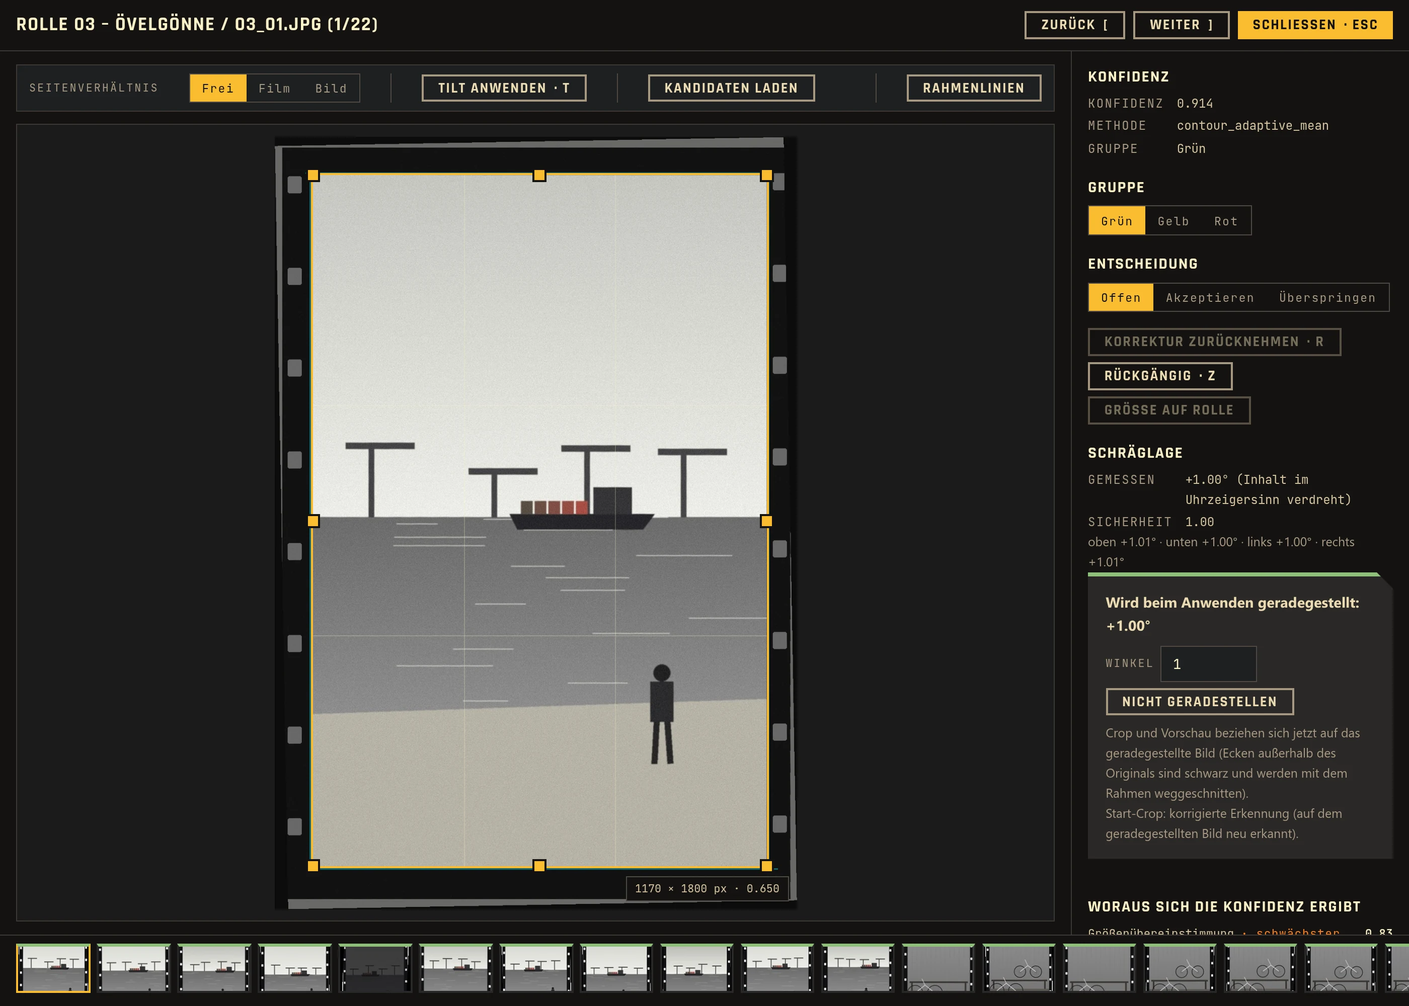
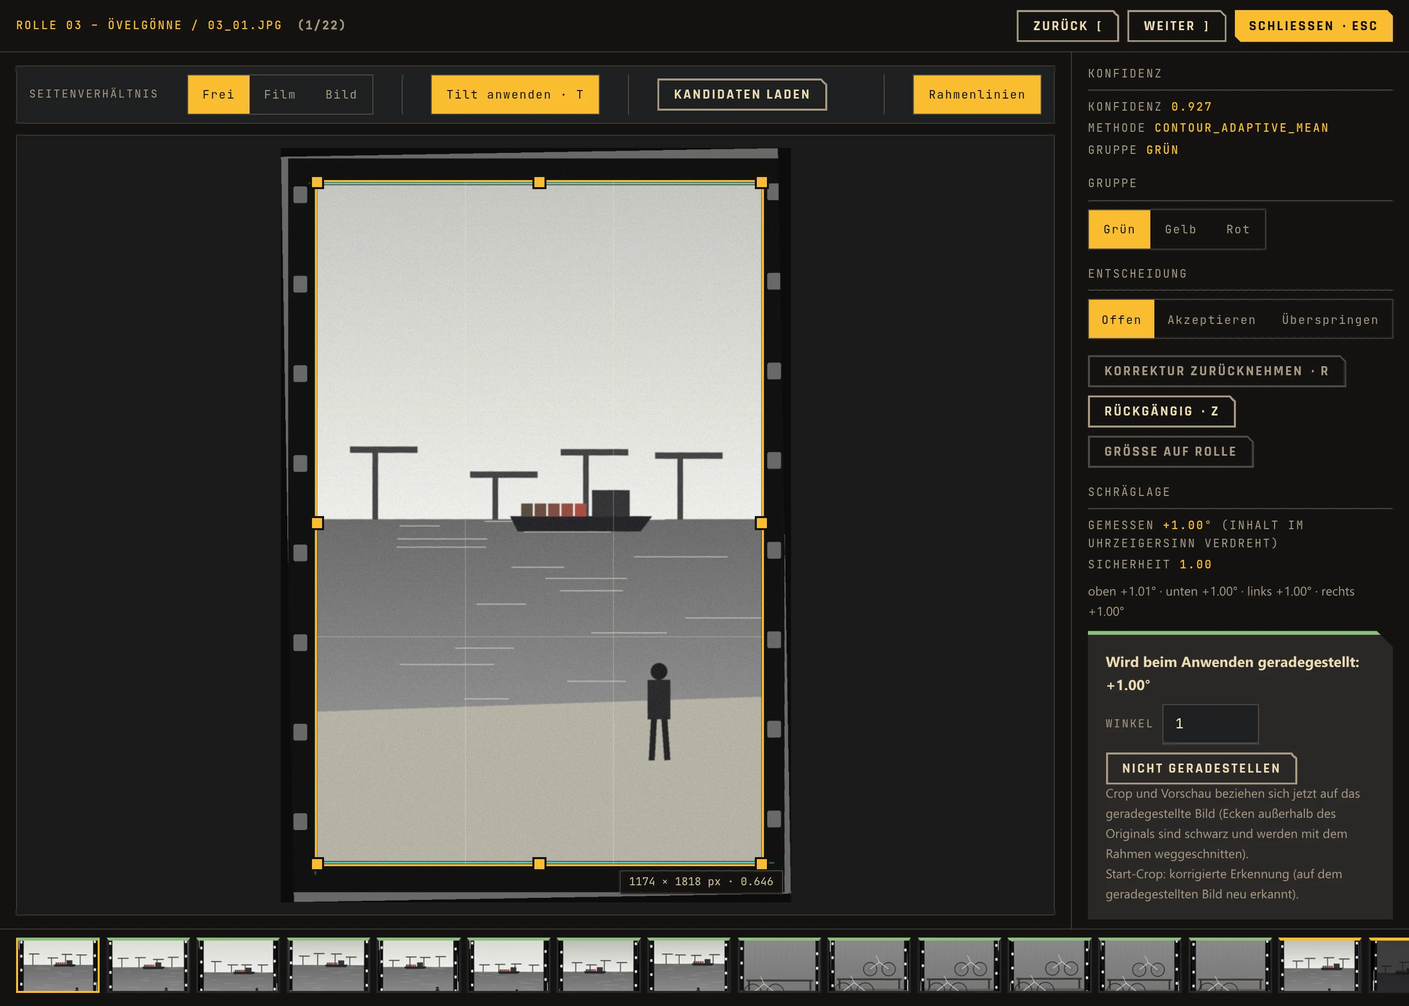
Release 0.4.0
Version 0.4.0 in pyproject.toml and companion/__init__.py, the 0.4.0
section in CHANGELOG.md, and the landing page: new entry at the top of
#changes with a screenshot of the Kante UI and a timing diagram, 0.1
moved into "Older releases", download box and footer on 0.4.0.
Screenshots retaken from the demo world; the editor shot now selects
the band by data-label (data-tier went away with the Kante migration).

diff --git a/docs/index.html b/docs/index.html
@@ -41,8 +41,8 @@
   </div>
   <div class="hero-side">
     <div class="install-card">
-      <label><span lang="en">Download · version 0.3.0</span><span lang="de">Herunterladen · Version 0.3.0</span></label>
-      <div class="install-links"><a class="btn btn-primary" href="https://github.com/shrippen/kader/releases/download/v0.3.0/Kader-0.3.0-windows-x64.exe">Windows (.exe)</a><a class="btn btn-primary" href="https://github.com/shrippen/kader/releases/download/v0.3.0/Kader-0.3.0-x86_64.AppImage">Linux (AppImage)</a></div>
+      <label><span lang="en">Download · version 0.4.0</span><span lang="de">Herunterladen · Version 0.4.0</span></label>
+      <div class="install-links"><a class="btn btn-primary" href="https://github.com/shrippen/kader/releases/download/v0.4.0/Kader-0.4.0-windows-x64.exe">Windows (.exe)</a><a class="btn btn-primary" href="https://github.com/shrippen/kader/releases/download/v0.4.0/Kader-0.4.0-x86_64.AppImage">Linux (AppImage)</a></div>
       <p class="install-note" lang="en">No Python, no terminal. Double-click, pick the folder of scans, check the crops in the browser. Windows 10 and 11; Linux from Ubuntu 22.04, Mint 21 or Debian 12. Uses darktable? The first start offers to set up the plugin.</p><p class="install-note" lang="de">Kein Python, kein Terminal. Doppelklicken, den Ordner mit den Scans wählen, die Zuschnitte im Browser prüfen. Windows 10 und 11; Linux ab Ubuntu 22.04, Mint 21 oder Debian 12. Du nutzt darktable? Der erste Start bietet an, das Plugin einzurichten.</p>
       <p class="install-note" lang="en">On a NAS or over SSH: with Python, <code>kader FOLDER --tui</code> shows the status in the terminal (see <a href="#terminal">Terminal</a>). All versions on the <a href="https://github.com/shrippen/kader/releases">release page</a>.</p><p class="install-note" lang="de">Auf einem NAS oder per SSH: mit Python zeigt <code>kader ORDNER --tui</code> den Stand im Terminal (siehe <a href="#terminal">Terminal</a>). Alle Versionen auf der <a href="https://github.com/shrippen/kader/releases">Release-Seite</a>.</p>
     </div>
@@ -101,7 +101,7 @@
 </section>
 <section class="section" id="status"><h2 lang="en">Where it stands</h2><h2 lang="de">Wo es steht</h2><p lang="en">The workflow is complete: folder in, web UI, six targets, darktable optional, packages for Windows and Linux. The detection hits about 87 % of the frames on 62 test rolls (about 84 % on undeveloped RAW negatives). The main error is a constant size offset per roll, not scatter inside a roll, so a whole roll can be slightly off together.</p><p lang="de">Der Ablauf ist vollständig: Ordner hinein, Web-Oberfläche, sechs Ziele, darktable optional, Pakete für Windows und Linux. Die Erkennung trifft auf 62 Testrollen etwa 87 % der Rahmen (etwa 84 % auf nicht entwickelten RAW-Negativen). Der Hauptfehler ist ein konstanter Größenversatz je Rolle, keine Streuung innerhalb der Rolle, eine ganze Rolle kann also gemeinsam leicht danebenliegen.</p><p lang="en">The confidence has become more honest: about 96 % of the green results are right, and rolls whose scale could not be confirmed are marked down instead of looking sure. For rolls without perforation in the scan this is not solved, only shown.</p><p lang="de">Die Konfidenz ist ehrlicher geworden: Etwa 96 % der grünen Ergebnisse stimmen, und Rollen, deren Maßstab sich nicht bestätigen ließ, werden abgewertet, statt sicher zu wirken. Für Rollen ohne Perforation im Scan ist das nicht gelöst, nur ausgewiesen.</p><div class="table-wrap"><table class="table"><thead><tr><th><span lang="en">Next</span><span lang="de">Als Nächstes</span></th><th><span lang="en">Goal</span><span lang="de">Ziel</span></th></tr></thead><tbody><tr><td><span lang="en">Real images</span><span lang="de">Echte Bilder</span></td><td><span lang="en">Before and after examples and screenshots of the web UI on this page</span><span lang="de">Vorher-nachher-Beispiele und Bildschirmfotos der Web-Oberfläche auf dieser Seite</span></td></tr><tr><td><span lang="en">darktable on Windows</span><span lang="de">darktable unter Windows</span></td><td><span lang="en">Check the plugin in a real darktable on Windows (so far only tested on Linux)</span><span lang="de">Das Plugin in echtem darktable unter Windows prüfen (bisher nur unter Linux getestet)</span></td></tr><tr><td><span lang="en">Test the sidecars</span><span lang="de">Sidecars prüfen</span></td><td><span lang="en">Check the <code>xmp</code> and <code>rawtherapee</code> output in Lightroom and RawTherapee themselves</span><span lang="de">Die Ausgabe von <code>xmp</code> und <code>rawtherapee</code> in Lightroom und RawTherapee selbst prüfen</span></td></tr><tr><td><span lang="en">Learn from feedback</span><span lang="de">Aus Rückmeldungen lernen</span></td><td><span lang="en">Use the corrections made in the web UI to find where the detection fails</span><span lang="de">Die Korrekturen aus der Web-Oberfläche nutzen, um zu finden, wo die Erkennung scheitert</span></td></tr></tbody></table></div><p lang="en">Details in the <a href="https://github.com/shrippen/kader/blob/main/roadmap.md">roadmap</a> and the <a href="https://github.com/shrippen/kader/blob/main/CHANGELOG.md">changelog</a>.</p><p lang="de">Details in der <a href="https://github.com/shrippen/kader/blob/main/roadmap.md">Roadmap</a> und im <a href="https://github.com/shrippen/kader/blob/main/CHANGELOG.md">Changelog</a>.</p></section>
 <section class="section" id="review"><h2 lang="en">Calibration</h2><h2 lang="de">Kalibrierung</h2><p lang="en">The reference data comes from the same web UI with the <code>reviews</code> target. A reference test shows how many detected crops lie within tolerance of your hand crops, and tiles are marked hit or miss. Corrections and accepted crops are saved as ground truth.</p><p lang="de">Die Referenzdaten kommen aus derselben Web-Oberfläche mit dem Ziel <code>reviews</code>. Ein Referenz-Test zeigt, wie viele erkannte Crops innerhalb der Toleranz zu deinen Handcrops liegen, und Kacheln tragen die Marke Treffer oder Abweichung. Korrekturen und bestätigte Crops werden als Ground Truth gespeichert.</p><ul lang="en"><li>Start it with <code>./start_review_gui.sh</code>, or <code>--films 33 34</code> for single rolls</li><li>Measure with <code>tools/eval.py</code> (hit rate, leave-one-film-out)</li></ul><ul lang="de"><li>Starte es mit <code>./start_review_gui.sh</code>, oder <code>--films 33 34</code> für einzelne Rollen</li><li>Messen mit <code>tools/eval.py</code> (Trefferquote, Leave-One-Film-Out)</li></ul></section>
-<section class="section" id="install"><h2 lang="en">Installation</h2><h2 lang="de">Installation</h2><h3 lang="en">Download (Windows, Linux)</h3><h3 lang="de">Herunterladen (Windows, Linux)</h3><div class="install-links" style="margin:.5rem 0 1.1rem"><a class="btn btn-accent" href="https://github.com/shrippen/kader/releases/download/v0.3.0/Kader-0.3.0-windows-x64.exe">Windows (.exe)</a><a class="btn btn-accent" href="https://github.com/shrippen/kader/releases/download/v0.3.0/Kader-0.3.0-x86_64.AppImage">Linux (AppImage)</a><a class="btn btn-outline" href="https://github.com/shrippen/kader/releases"><span lang="en">All releases</span><span lang="de">Alle Versionen</span></a></div><p lang="en">No Python and no terminal. Double-click, pick the folder, and the review opens in the browser while a small window shows the progress. RAWs are developed without other programs.</p><p lang="de">Kein Python und kein Terminal. Doppelklicken, den Ordner wählen, und die Prüfung öffnet sich im Browser, während ein kleines Fenster den Fortschritt zeigt. RAWs werden ohne weitere Programme entwickelt.</p><ul lang="en"><li><strong>Windows:</strong> the file is not signed. On the first start Windows says “Windows protected your PC”: click <strong>More info</strong>, then <strong>Run anyway</strong>.</li><li><strong>Linux:</strong> make the AppImage executable once (right-click → Properties → Permissions → “Allow executing as program”, or <code>chmod +x Kader-*.AppImage</code>), then double-click.</li><li>You can also drag the folder onto the file instead of using the dialog.</li></ul><ul lang="de"><li><strong>Windows:</strong> Die Datei ist nicht signiert. Beim ersten Start meldet Windows „Der Computer wurde durch Windows geschützt“: auf <strong>Weitere Informationen</strong>, dann <strong>Trotzdem ausführen</strong> klicken.</li><li><strong>Linux:</strong> Das AppImage einmal ausführbar machen (Rechtsklick → Eigenschaften → Berechtigungen → „Als Programm ausführen“, oder <code>chmod +x Kader-*.AppImage</code>), dann doppelklicken.</li><li>Statt des Dialogs kannst du den Ordner auch auf die Datei ziehen.</li></ul><h3 lang="en">darktable plugin</h3><h3 lang="de">darktable-Plugin</h3><p lang="en">If darktable is installed, the first start of the app offers to set up the plugin. Close darktable first. The app copies the plugin, turns it on in the Script Manager and remembers where the app lives; if you move the app, the next start updates that. The panel in the lighttable is called <strong>Kader</strong>. Later: <code>Kader darktable-plugin install</code>, <code>uninstall</code> or <code>status</code>.</p><p lang="de">Ist darktable installiert, bietet der erste Start der App an, das Plugin einzurichten. darktable vorher schließen. Die App kopiert das Plugin, schaltet es im Script Manager ein und merkt sich, wo die App liegt; verschiebst du sie, trägt der nächste Start das nach. Das Modul im Leuchttisch heißt <strong>Kader</strong>. Später: <code>Kader darktable-plugin install</code>, <code>uninstall</code> oder <code>status</code>.</p><h3 lang="en">With Python</h3><h3 lang="de">Mit Python</h3><div class="codeblock">git clone https://github.com/shrippen/kader.git
+<section class="section" id="install"><h2 lang="en">Installation</h2><h2 lang="de">Installation</h2><h3 lang="en">Download (Windows, Linux)</h3><h3 lang="de">Herunterladen (Windows, Linux)</h3><div class="install-links" style="margin:.5rem 0 1.1rem"><a class="btn btn-accent" href="https://github.com/shrippen/kader/releases/download/v0.4.0/Kader-0.4.0-windows-x64.exe">Windows (.exe)</a><a class="btn btn-accent" href="https://github.com/shrippen/kader/releases/download/v0.4.0/Kader-0.4.0-x86_64.AppImage">Linux (AppImage)</a><a class="btn btn-outline" href="https://github.com/shrippen/kader/releases"><span lang="en">All releases</span><span lang="de">Alle Versionen</span></a></div><p lang="en">No Python and no terminal. Double-click, pick the folder, and the review opens in the browser while a small window shows the progress. RAWs are developed without other programs.</p><p lang="de">Kein Python und kein Terminal. Doppelklicken, den Ordner wählen, und die Prüfung öffnet sich im Browser, während ein kleines Fenster den Fortschritt zeigt. RAWs werden ohne weitere Programme entwickelt.</p><ul lang="en"><li><strong>Windows:</strong> the file is not signed. On the first start Windows says “Windows protected your PC”: click <strong>More info</strong>, then <strong>Run anyway</strong>.</li><li><strong>Linux:</strong> make the AppImage executable once (right-click → Properties → Permissions → “Allow executing as program”, or <code>chmod +x Kader-*.AppImage</code>), then double-click.</li><li>You can also drag the folder onto the file instead of using the dialog.</li></ul><ul lang="de"><li><strong>Windows:</strong> Die Datei ist nicht signiert. Beim ersten Start meldet Windows „Der Computer wurde durch Windows geschützt“: auf <strong>Weitere Informationen</strong>, dann <strong>Trotzdem ausführen</strong> klicken.</li><li><strong>Linux:</strong> Das AppImage einmal ausführbar machen (Rechtsklick → Eigenschaften → Berechtigungen → „Als Programm ausführen“, oder <code>chmod +x Kader-*.AppImage</code>), dann doppelklicken.</li><li>Statt des Dialogs kannst du den Ordner auch auf die Datei ziehen.</li></ul><h3 lang="en">darktable plugin</h3><h3 lang="de">darktable-Plugin</h3><p lang="en">If darktable is installed, the first start of the app offers to set up the plugin. Close darktable first. The app copies the plugin, turns it on in the Script Manager and remembers where the app lives; if you move the app, the next start updates that. The panel in the lighttable is called <strong>Kader</strong>. Later: <code>Kader darktable-plugin install</code>, <code>uninstall</code> or <code>status</code>.</p><p lang="de">Ist darktable installiert, bietet der erste Start der App an, das Plugin einzurichten. darktable vorher schließen. Die App kopiert das Plugin, schaltet es im Script Manager ein und merkt sich, wo die App liegt; verschiebst du sie, trägt der nächste Start das nach. Das Modul im Leuchttisch heißt <strong>Kader</strong>. Später: <code>Kader darktable-plugin install</code>, <code>uninstall</code> oder <code>status</code>.</p><h3 lang="en">With Python</h3><h3 lang="de">Mit Python</h3><div class="codeblock">git clone https://github.com/shrippen/kader.git
 cd kader
 ./install.sh --standalone   # command "kader", without darktable
 ./install.sh                # darktable plugin (Linux)</div><p lang="en"><code>--standalone</code> sets up its own environment in <code>~/.local/share/kader/venv</code> with OpenCV, NumPy, Pillow and <code>rawpy</code> and links <code>kader</code> to <code>~/.local/bin</code>. By hand: <code>pip install ".[raw]"</code>. Without <code>--standalone</code> it installs the darktable plugin for Python; then enable <strong>contrib → Kader</strong> in the Script Manager. Only this way offers the old direct mode <strong>Detect &amp; Queue</strong>.</p><p lang="de"><code>--standalone</code> richtet eine eigene Umgebung unter <code>~/.local/share/kader/venv</code> mit OpenCV, NumPy, Pillow und <code>rawpy</code> ein und verlinkt <code>kader</code> nach <code>~/.local/bin</code>. Von Hand: <code>pip install ".[raw]"</code>. Ohne <code>--standalone</code> wird das darktable-Plugin für Python installiert; danach im Script Manager <strong>contrib → Kader</strong> einschalten. Nur dieser Weg bietet den alten Direktmodus <strong>Detect &amp; Queue</strong>.</p></section>
@@ -110,6 +110,32 @@ cd kader
   <h2 lang="en">Changes</h2><h2 lang="de">Änderungen</h2>
   <p lang="en">What each release brought, newest first. Every release adds an entry here and the same notes on the release page.</p><p lang="de">Was jede Version gebracht hat, die neueste zuerst. Jede Version bekommt hier einen Eintrag und dieselben Notizen auf der Release-Seite.</p>
   <ol class="changelog">
+    <li class="release" id="v0.4.0">
+      <div class="release-head"><b class="release-version">0.4.0</b><time datetime="2026-11-09"><span lang="en">9 Nov 2026</span><span lang="de">9. Nov. 2026</span></time></div>
+      <div class="release-body">
+        <p class="release-lead"><span lang="en">Faster and in a new look: a roll is detected about 4.7 times as fast, and the review in the browser uses the Kante design, also on a phone.</span><span lang="de">Schneller und in neuem Gewand: Eine Rolle ist etwa 4,7-mal so schnell erkannt, und die Prüfung im Browser nutzt das Kante-Design, auch auf dem Handy.</span></p>
+        <div class="release-group" data-kind="improved"><h3><span lang="en">Improved</span><span lang="de">Verbessert</span></h3><ul>
+          <li><span lang="en">Detection is about 4.7 times as fast: the test rolls took 58 seconds and now take about 13, with the same or slightly better hits (reference crops 1453 → 1467 of 1662). The line search runs on half the resolution, and each analysis process uses one thread instead of all cores at once.</span><span lang="de">Die Erkennung ist etwa 4,7-mal so schnell: Die Testrollen brauchten 58 Sekunden und jetzt etwa 13, mit gleichen oder etwas besseren Treffern (Referenz-Crops 1453 → 1467 von 1662). Die Liniensuche läuft auf halber Auflösung, und jeder Analyseprozess nutzt einen Thread statt aller Kerne zugleich.</span></li>
+          <li><span lang="en">The web UI uses the Kante design: clearer labels, counts and progress, and dragging an image between green, yellow and red shows where it lands. The status window and the terminal display take the same colours.</span><span lang="de">Die Web-Oberfläche nutzt das Kante-Design: klarere Labels, Zahlen und Fortschritt, und beim Ziehen eines Bildes zwischen Grün, Gelb und Rot sieht man, wo es landet. Statusfenster und Terminal-Anzeige übernehmen dieselben Farben.</span></li>
+          <li><span lang="en">On a phone the page no longer scrolls sideways, the action bar keeps out of the way of the content and messages, and the crop editor opens at the top with the whole picture.</span><span lang="de">Auf dem Handy scrollt die Seite nicht mehr seitwärts, die Aktionsleiste verdeckt weder Inhalt noch Meldungen, und der Zuschnitt-Editor öffnet oben mit dem ganzen Bild.</span></li>
+        </ul></div>
+        <div class="release-group" data-kind="fixed"><h3><span lang="en">Fixed</span><span lang="de">Behoben</span></h3><ul>
+          <li><span lang="en">The straighten switch (key T) did nothing on an image without a measured tilt. It is now off there, and T says there is no tilt.</span><span lang="de">Der Schalter zum Geradestellen (Taste T) tat bei einem Bild ohne gemessene Neigung nichts. Dort ist er jetzt aus, und T meldet, dass es keine Neigung gibt.</span></li>
+        </ul></div>
+        <div class="release-shots">
+          <figure><img lang="en" src="shots/release-0.4.0-gallery-en.webp" alt="The review gallery in the Kante design, images grouped green, yellow and red" loading="lazy"><img lang="de" src="shots/release-0.4.0-gallery-de.webp" alt="Die Prüf-Galerie im Kante-Design, Bilder nach Grün, Gelb und Rot gruppiert" loading="lazy"><figcaption><span lang="en">The review in the Kante design</span><span lang="de">Die Prüfung im Kante-Design</span></figcaption></figure>
+          <figure><svg viewBox="0 0 400 170" role="img" aria-labelledby="perf-t"><title id="perf-t">Detection time of the test rolls: 0.3.0 58 s, 0.4.0 13 s</title>
+              <g style="font-family:var(--font-mono);font-size:12px;fill:var(--fg2)">
+                <text x="56" y="44" text-anchor="end">0.3.0</text><rect x="64" y="28" width="290" height="24" style="fill:var(--fg3)"/><text x="350" y="44" text-anchor="end" style="fill:var(--bg0)">58 s</text>
+                <text x="56" y="88" text-anchor="end">0.4.0</text><rect x="64" y="72" width="65" height="24" style="fill:var(--primary)"/><text x="135" y="88">13 s</text>
+                <path d="M64 108v6M136.5 108v6M209 108v6M281.5 108v6M354 108v6M64 111h290" style="stroke:var(--fg3);fill:none"/>
+                <text x="64" y="128" text-anchor="middle">0</text><text x="136.5" y="128" text-anchor="middle">15</text><text x="209" y="128" text-anchor="middle">30</text><text x="281.5" y="128" text-anchor="middle">45</text><text x="354" y="128" text-anchor="middle">60</text>
+                <text x="209" y="154" text-anchor="middle" style="fill:var(--fg3)"><tspan lang="en">seconds for the test rolls (lower is better)</tspan><tspan lang="de">Sekunden für die Testrollen (weniger ist besser)</tspan></text>
+              </g></svg><figcaption><span lang="en">Detection time, test rolls</span><span lang="de">Erkennungszeit, Testrollen</span></figcaption></figure>
+        </div>
+        <a class="release-notes" href="https://github.com/shrippen/kader/compare/v0.3.0...v0.4.0"><span lang="en">All changes since 0.3.0 →</span><span lang="de">Alle Änderungen seit 0.3.0 →</span></a>
+      </div>
+    </li>
     <li class="release" id="v0.3.0">
       <div class="release-head"><b class="release-version">0.3.0</b><time datetime="2026-09-26"><span lang="en">26 Sep 2026</span><span lang="de">26. Sep. 2026</span></time></div>
       <div class="release-body">
@@ -168,6 +194,9 @@ cd kader
         <a class="release-notes" href="https://github.com/shrippen/kader/compare/v0.1...v0.2.0"><span lang="en">All changes since 0.1 →</span><span lang="de">Alle Änderungen seit 0.1 →</span></a>
       </div>
     </li>
+  </ol>
+  <details class="changelog-more"><summary><span lang="en">Older releases</span><span lang="de">Ältere Versionen</span></summary>
+  <ol class="changelog">
     <li class="release" id="v0.1">
       <div class="release-head"><b class="release-version">0.1</b><time datetime="2026-09-20"><span lang="en">20 Sep 2026</span><span lang="de">20. Sep. 2026</span></time></div>
       <div class="release-body">
@@ -190,6 +219,7 @@ cd kader
       </div>
     </li>
   </ol>
+  </details>
 </section>
 </main>
 
@@ -204,7 +234,7 @@ cd kader
       <div><h4><span lang="en">Source</span><span lang="de">Quelltext</span></h4><a href="https://github.com/shrippen/kader">GitHub</a><a href="https://github.com/shrippen/kader/releases">Releases</a><a href="https://github.com/shrippen/kader/issues">Issues</a></div>
     </nav>
   </div>
-  <div class="foot-meta"><p>MIT · shrippen · <a href="#changes">v0.3.0</a></p></div>
+  <div class="foot-meta"><p>MIT · shrippen · <a href="#changes">v0.4.0</a></p></div>
 </footer>
 
 </body>

diff --git a/companion/__init__.py b/companion/__init__.py
@@ -1,2 +1,2 @@
 """Companion-UI fuer Kader (lokaler Server + Web-Oberflaeche)."""
-__version__ = "0.3.0"
+__version__ = "0.4.0"

diff --git a/CHANGELOG.md b/CHANGELOG.md
@@ -2,24 +2,33 @@
 
 ## [Unreleased]
 
-### Erkennung 4,7x schneller
-- Die Liniensuche (Hough) läuft auf halber Auflösung der Kantenkarte, jeder Analyseprozess nutzt einen
-  OpenCV-Thread statt aller Kerne. Eine Rolle ist damit etwa 4,7-mal so schnell erkannt; die Treffer sind gleich
-  oder besser (Referenz-Crops 1453 → 1467 von 1662).
+## [0.4.0] — 2026-11-09
 
-### Oberfläche auf Kante 1.7
-- Die Companion-UI nutzt Kante 1.7 (vendort, `companion/static/vendor/`) statt des alten Design-Bundles; eigene
-  Bausteine (Badges, Chips, Kennzahlenlisten, Fortschrittszeilen) sind durch Kante-Klassen ersetzt, `app.css`
-  enthält nur noch Layout. Kennzahlen und Analysefortschritt zählen hoch, Drag-and-drop zwischen den Bändern
-  nutzt Kantes Lücke/Zielzelle/Einrasten.
-- Tk-Review-GUI, Statusfenster und TUI beziehen ihre Farben aus `companion/kante_tokens.py` (aus Kantes
-  `palette.json` erzeugt, `tools/gen_kante_tokens.py`). Geschnittene Ecken gibt es in Tk nicht.
+### English
 
-- Kante 1.5/1.6 nachgezogen: Aktionsleiste als `.bulk-bar`, Kennzahlen mit `.fact[data-tier]`, Kandidaten als
-  `.chip`, Einstellungen als `.setting`-Zeilen, Meldungen im `.toast-stack`, Abschnittstitel als `.h-label`;
-  die zugehörigen eigenen Regeln in `app.css` entfallen.
-  Kopfzeile mit `.nav-inner.is-wrap`/`.nav-tools`, Aktionsleiste als `.bulk-bar.is-fixed` (Meldungen und Seitenrand
-  folgen `--bar-h`), Editor auf Handys mit voller Bildfläche; kein seitliches Scrollen mehr bei 390 px. `tools/sync-kante.sh` liest die Version aus `palette.json`.
+Faster and in a new look: a roll is detected about 4.7 times as fast, and the review in the browser uses the Kante design, also on a phone.
+
+#### Improved
+- Detection is about 4.7 times as fast: the test rolls took 58 seconds and now take about 13, with the same or slightly better hits (reference crops 1453 → 1467 of 1662). The line search runs on half the resolution, and each analysis process uses one thread instead of all cores at once.
+- The web UI uses the Kante design: clearer labels, counts and progress, and dragging an image between green, yellow and red shows where it lands. The status window and the terminal display take the same colours.
+- On a phone the page no longer scrolls sideways, the action bar keeps out of the way of the content and messages, and the crop editor opens at the top with the whole picture.
+
+#### Fixed
+- The straighten switch (key T) did nothing on an image without a measured tilt. It is now off there, and T says there is no tilt.
+
+All changes: https://github.com/shrippen/kader/compare/v0.3.0...v0.4.0
+
+### Deutsch
+
+Schneller und in neuem Gewand: Eine Rolle ist etwa 4,7-mal so schnell erkannt, und die Prüfung im Browser nutzt das Kante-Design, auch auf dem Handy.
+
+#### Verbessert
+- Die Erkennung ist etwa 4,7-mal so schnell: Die Testrollen brauchten 58 Sekunden und jetzt etwa 13, mit gleichen oder etwas besseren Treffern (Referenz-Crops 1453 → 1467 von 1662). Die Liniensuche läuft auf halber Auflösung, und jeder Analyseprozess nutzt einen Thread statt aller Kerne zugleich.
+- Die Web-Oberfläche nutzt das Kante-Design: klarere Labels, Zahlen und Fortschritt, und beim Ziehen eines Bildes zwischen Grün, Gelb und Rot sieht man, wo es landet. Statusfenster und Terminal-Anzeige übernehmen dieselben Farben.
+- Auf dem Handy scrollt die Seite nicht mehr seitwärts, die Aktionsleiste verdeckt weder Inhalt noch Meldungen, und der Zuschnitt-Editor öffnet oben mit dem ganzen Bild.
+
+#### Behoben
+- Der Schalter zum Geradestellen (Taste T) tat bei einem Bild ohne gemessene Neigung nichts. Dort ist er jetzt aus, und T meldet, dass es keine Neigung gibt.
 
 ## [0.3.0] — 2026-09-26
 
